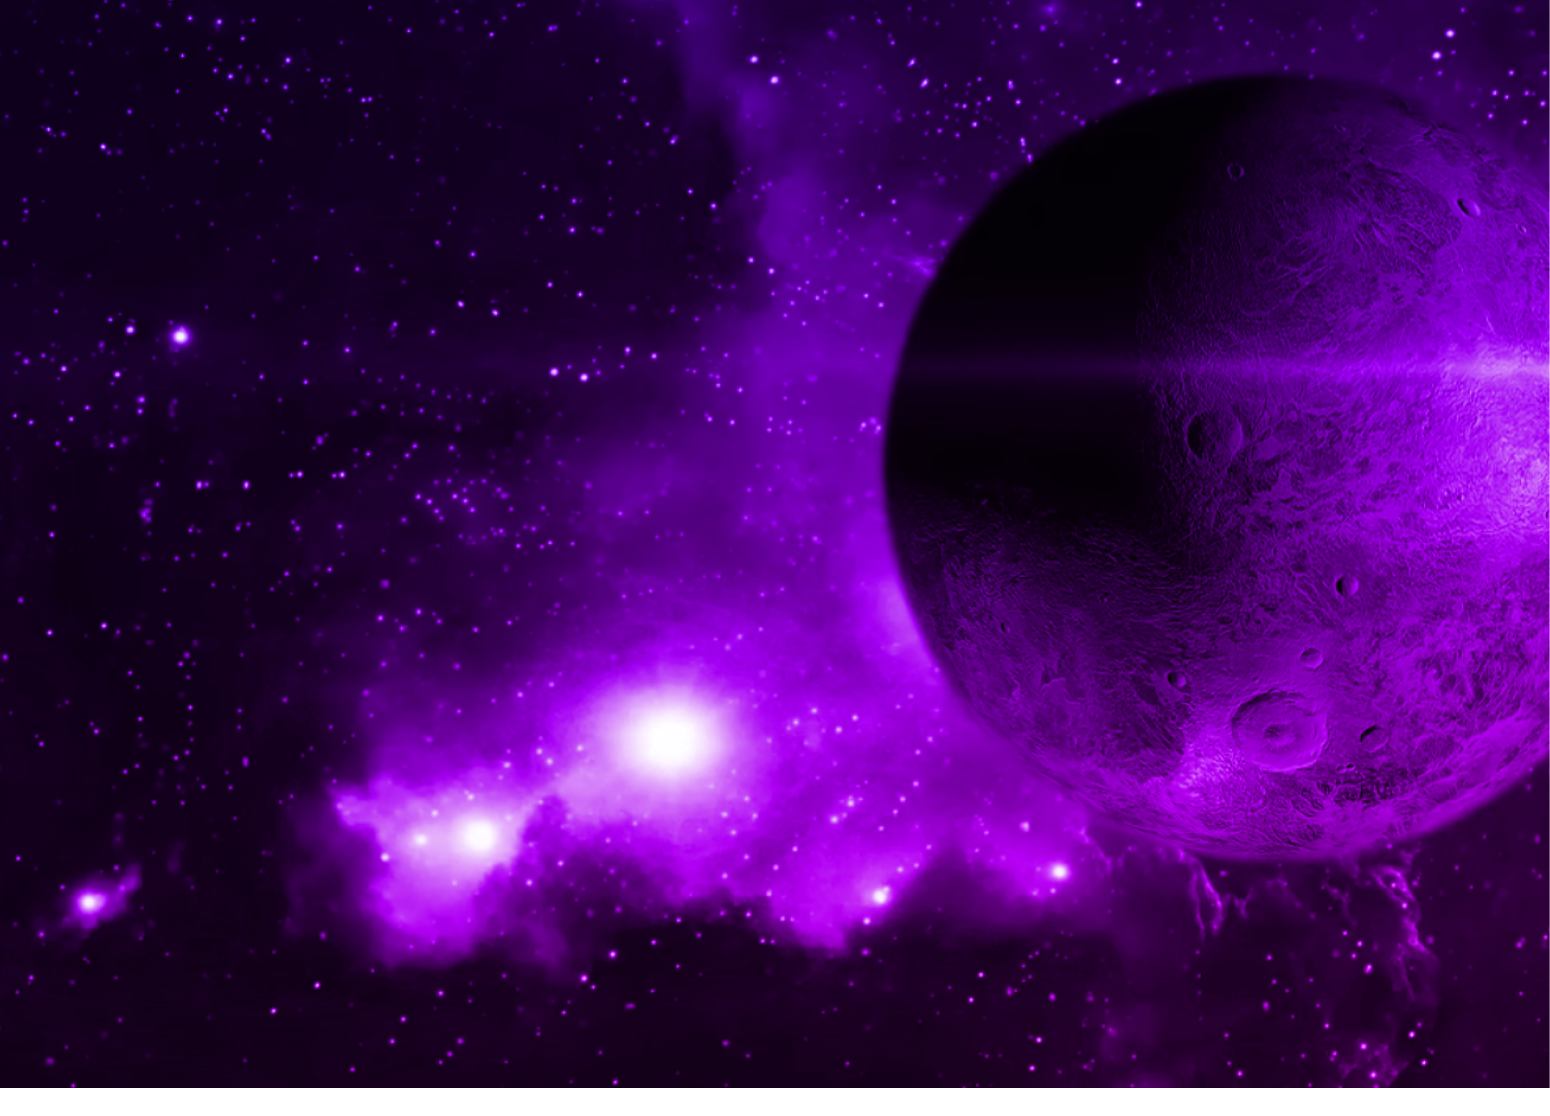
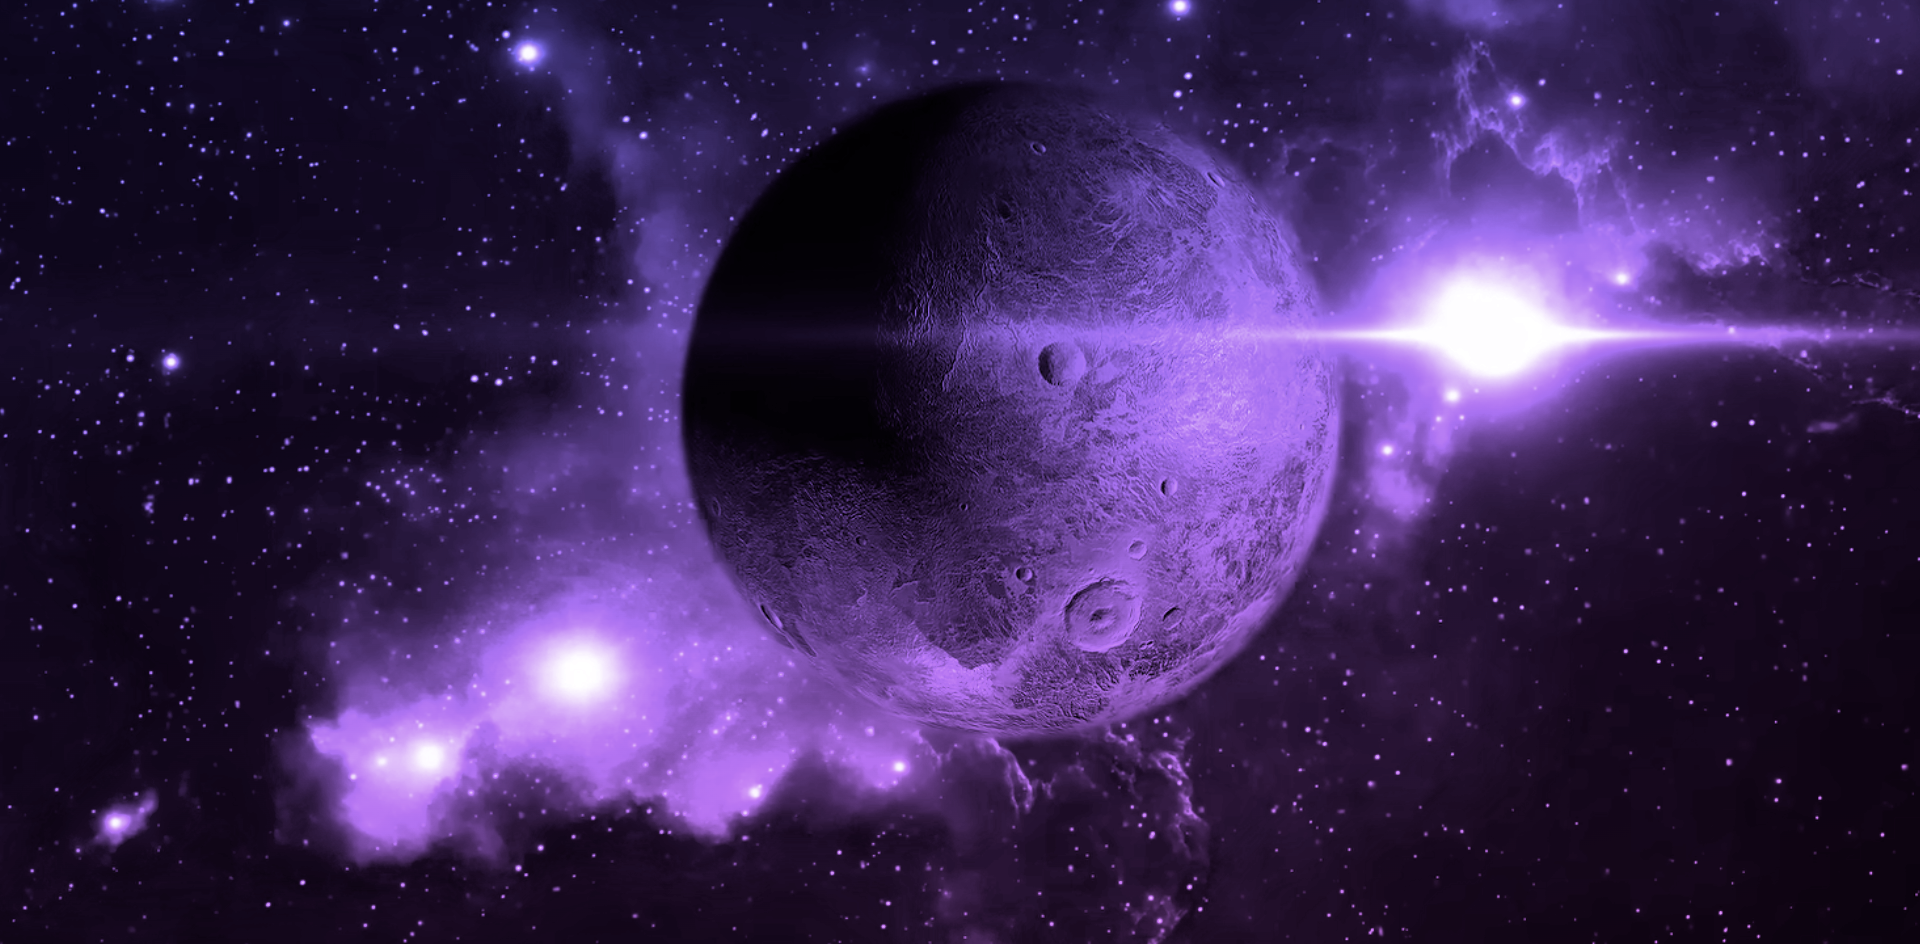
feat: :rocket: Responsividade mais posts

diff --git a/src/data/ProjectImages.js b/src/data/ProjectImages.js
@@ -8,23 +8,23 @@ const projectImages = {
   2: {
     avatar: require('../img/works/vereda/avatar_vereda.jpg'),
     gallery: [
-      require('../img/works/vereda/sustentabilidade.jpg'),
+      require('../img/works/vereda/vereda_full.png'),
     ],
   },
   3: {
     avatar: require('../img/works/app_receitas/app_receitas_avatar.png'),
     gallery: [
-      require('../img/works/app_receitas/app_receitas_avatar.png'),
+      require('../img/works/app_receitas/Receita_full.png'),
     ],
   },
   4: {
-    avatar: require('../img/works/the_box/box_avatar.png'),
+    avatar: require('../img/works/the_box/full.png'),
     gallery: [
-      require('../img/works/the_box/box_avatar.png'),
+      require('../img/works/the_box/full.png'),
     ],
   },
   5: {
-    avatar: require('../img/works/sistema_solar/solar_avatar.png'),
+    avatar: require('../img/works/sistema_solar/solar.png'),
     gallery: [
       require('../img/works/sistema_solar/solar.png'),
     ],

diff --git a/src/components/ProjectDetails/index.js b/src/components/ProjectDetails/index.js
@@ -54,7 +54,7 @@ export default function ProjectDetails({ currentProject, projectList }) {
         style={{ height: `${figureHeight}px`, width: `${figureHeight}px` }}
       >
         {ProjectImages[id] && ProjectImages[id].gallery ? (
-          <img src={ProjectImages[id].gallery} alt={`📷 ${title} - Miniatura`} />
+          <img src={ProjectImages[id].gallery[0]} alt={`📷 ${title} - full`} />
         ) : (
           <p>Sem 📷</p>
         )}
